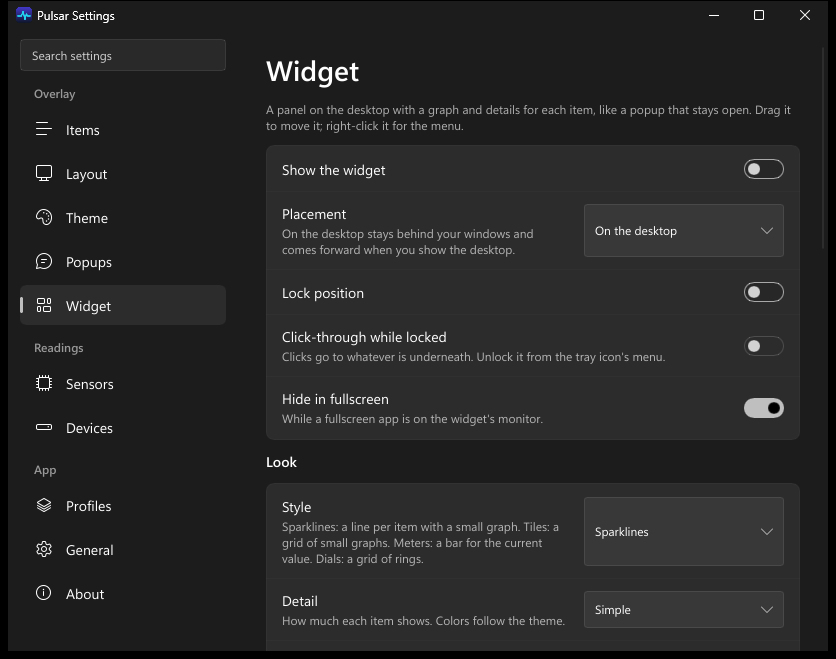
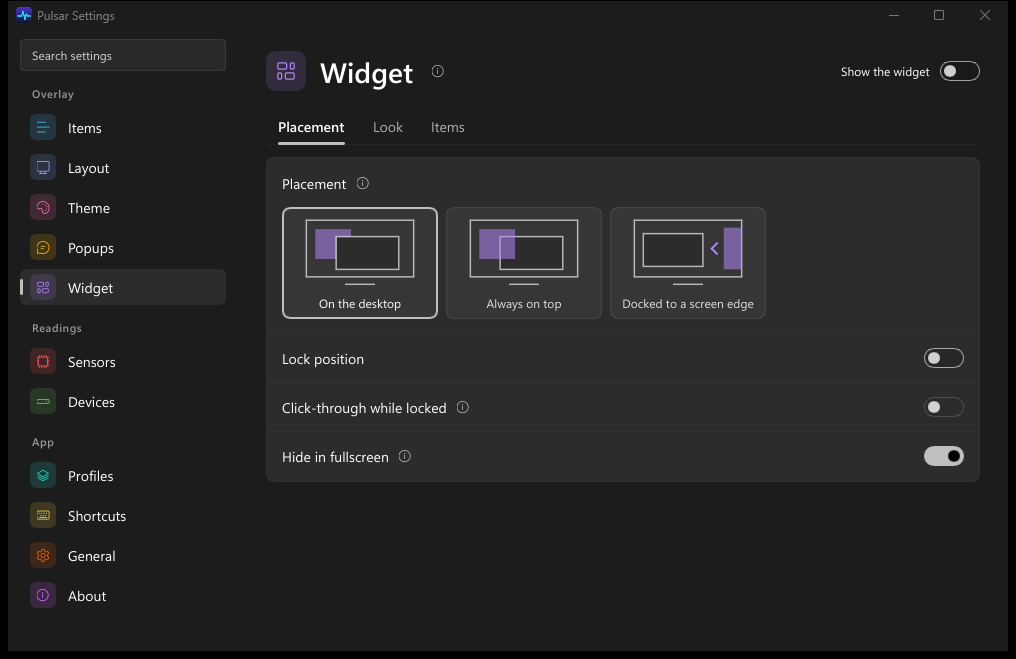
Document the new widget and Settings, and refresh the screenshots

diff --git a/README.md b/README.md
@@ -32,12 +32,13 @@ Pulsar puts live graphs or compact text for your system's vital signs right on t
 
 ## Highlights
 
-- **Graphs or text**, with one of twenty graph styles, a color and a popup detail chosen per item.
+- **Graphs or text**, with one of twenty graph styles, a color and a popup detail chosen per item, in a plain strip, one pill or a chip per item.
 - **Hover popups** at three levels of detail, with a translucent background that blurs what is behind them.
 - **A system details window**: processor, memory modules, graphics, drives, network, motherboard and every live sensor.
 - **GPU monitoring for any vendor**, read the way Task Manager does, with no drivers or vendor SDKs.
 - **CPU temperature and power, if you opt in**, through an optional [sensor service](#sensor-service).
-- **A desktop widget** with sparklines, tiles, meters or dials, and **themes** you can save and share, or design on [Pulsar Themes](https://oman-rod.github.io/Pulsar/).
+- **A desktop widget** with sparklines, tiles, meters, dials or device cards, nine layouts, glass or acrylic backgrounds, and an option to dock it to a screen edge, where it waits until you push the pointer against it.
+- **Themes** you can save and share, or design on [Pulsar Themes](https://oman-rod.github.io/Pulsar/).
 - **Frame rates and game sessions**: the frame rate of the app in front, a strip on the game's monitor while you play, and a summary when the game closes.
 - **Light**: about 20 MB of memory and well under 1% CPU, and it [pauses while nobody can see it](#staying-out-of-the-way). No admin rights, no drivers and no background services unless you add the sensor service.
 - **No telemetry.** See [Privacy](#privacy).
@@ -81,6 +82,16 @@ Pulsar sits beside the tray or at the left edge of the taskbar, nudged by an off
 | **Text** | ![Text mode](https://raw.githubusercontent.com/oMaN-Rod/Pulsar/main/docs/images/overlay-text.png) |
 | **Text, one-letter labels** | ![Text mode with one-letter labels](https://raw.githubusercontent.com/oMaN-Rod/Pulsar/main/docs/images/overlay-text-short.png) |
 | **Text, icons alone** | ![Text mode with icons alone](https://raw.githubusercontent.com/oMaN-Rod/Pulsar/main/docs/images/overlay-text-icons.png) |
+| **Text, label above the value**, chosen per item | ![Text mode with labels above the values](https://raw.githubusercontent.com/oMaN-Rod/Pulsar/main/docs/images/overlay-text-label-above.png) |
+
+### Shapes
+
+The items sit in a plain strip, in one pill around them all, or in a chip each. Set the corner radius, or leave the ends fully round, in *Settings → Layout → Overlay*.
+
+| | |
+|---|---|
+| **Pill** | ![Items in one pill](https://raw.githubusercontent.com/oMaN-Rod/Pulsar/main/docs/images/overlay-shape-pill.png) |
+| **Chips** | ![A chip per item](https://raw.githubusercontent.com/oMaN-Rod/Pulsar/main/docs/images/overlay-shape-chips.png) |
 
 ### A style and color per item
 
@@ -127,9 +138,11 @@ GPU power is in watts, for NVIDIA cards, read through the management library the
 
 ### Floating
 
-Detach Pulsar from the taskbar, drag it anywhere and lock it in place, here with a panel background.
+Detach Pulsar from the taskbar, drag it anywhere and lock it in place. A floating pill or chips blur what is behind them.
 
-![Floating mode](https://raw.githubusercontent.com/oMaN-Rod/Pulsar/main/docs/images/overlay-floating.png)
+| Panel | Pill |
+|:---:|:---:|
+| ![Floating mode](https://raw.githubusercontent.com/oMaN-Rod/Pulsar/main/docs/images/overlay-floating.png) | ![Floating pill](https://raw.githubusercontent.com/oMaN-Rod/Pulsar/main/docs/images/overlay-floating-pill.png) |
 
 ### On a full taskbar
 
@@ -137,13 +150,47 @@ Pulsar stays where you put it until it would cover a taskbar button. Then its it
 
 ### Desktop widget
 
-A panel on the desktop with a section per item, like a popup that stays open. It sits behind your windows and comes forward when you show the desktop, or stays on top if you prefer. Choose sparklines, tiles, meters or dials and how much detail it shows, for all items or per item, and drag it anywhere. Set its background color and opacity, and give it an order of its own by dragging the handles in *Settings → Widget*, or by holding <kbd>Shift</kbd> and dragging an item on the widget (no <kbd>Shift</kbd> needed once it is locked). The CPU can also show a core wall: a tall bar per logical processor with its peak, with performance and efficient cores apart. Turn it on in *Settings → Widget* or from the menu.
+A panel on the desktop with a section per item, like a popup that stays open. It sits behind your windows and comes forward when you show the desktop, stays on top, or docks to a screen edge. Drag it anywhere, and turn it on or off with the switch at the top of *Settings → Widget* or from the menu.
+
+- **Style:** sparklines, tiles, meters, dials or device cards (the device, a large value beside its graph, then details), for all items or per item, at Simple, Standard or Detailed. The CPU can also show a core wall: a tall bar per logical processor with its peak, with performance and efficient cores apart.
+- **Layout:** let Pulsar pick one, or choose Dashboard, Lanes, Tiles, Meters, Dials, Strip, Rings or Focus from the pictures in *Settings → Widget → Look*. The widget either fits its content or takes the size you drag its edges to.
+- **Focus:** one item at a time, with a large value and graph. It can step to the next item on a timer, with a fade or slide, or when you press a shortcut.
+- **Material:** Solid; Glass or Acrylic, which blur what is behind the widget; or Clear, which never blurs, for use over games. Glass can take a tint from the background color. Items can share one panel or each have a card of their own, with an optional border.
+- **Network:** download and upload as meter bars, with their rates under the direction names or on one line, and upload in a color of its own.
+- **Order:** the widget can show its own items in its own order: drag the handles in *Settings → Widget → Items*, or hold <kbd>Shift</kbd> and drag an item on the widget (no <kbd>Shift</kbd> needed once it is locked).
 
 | Sparklines | Tiles | Meters |
 |:---:|:---:|:---:|
 | <img src="https://raw.githubusercontent.com/oMaN-Rod/Pulsar/main/docs/images/widget-sparklines.png" width="220" alt="Widget with sparklines"> | <img src="https://raw.githubusercontent.com/oMaN-Rod/Pulsar/main/docs/images/widget-tiles.png" width="220" alt="Widget with tiles"> | <img src="https://raw.githubusercontent.com/oMaN-Rod/Pulsar/main/docs/images/widget-meters.png" width="220" alt="Widget with meters"> |
-| **Dials** | **Core wall** | **Detailed** |
-| <img src="https://raw.githubusercontent.com/oMaN-Rod/Pulsar/main/docs/images/widget-dials.png" width="220" alt="Widget with dials"> | <img src="https://raw.githubusercontent.com/oMaN-Rod/Pulsar/main/docs/images/widget-core-wall.png" width="220" alt="Widget with the CPU core wall"> | <img src="https://raw.githubusercontent.com/oMaN-Rod/Pulsar/main/docs/images/widget-detailed.png" width="220" alt="Widget at Detailed"> |
+| **Dials** | **Device cards** | **Core wall** |
+| <img src="https://raw.githubusercontent.com/oMaN-Rod/Pulsar/main/docs/images/widget-dials.png" width="220" alt="Widget with dials"> | <img src="https://raw.githubusercontent.com/oMaN-Rod/Pulsar/main/docs/images/widget-cards.png" width="220" alt="Widget with device cards"> | <img src="https://raw.githubusercontent.com/oMaN-Rod/Pulsar/main/docs/images/widget-core-wall.png" width="220" alt="Widget with the CPU core wall"> |
+| **Glass, separate cards** | **Acrylic** | **Detailed** |
+| <img src="https://raw.githubusercontent.com/oMaN-Rod/Pulsar/main/docs/images/widget-glass.png" width="220" alt="Widget with glass cards"> | <img src="https://raw.githubusercontent.com/oMaN-Rod/Pulsar/main/docs/images/widget-acrylic.png" width="220" alt="Widget with an acrylic background"> | <img src="https://raw.githubusercontent.com/oMaN-Rod/Pulsar/main/docs/images/widget-detailed.png" width="220" alt="Widget at Detailed"> |
+
+<details>
+<summary><b>More layouts</b></summary>
+
+| Focus |
+|:---:|
+| <img src="https://raw.githubusercontent.com/oMaN-Rod/Pulsar/main/docs/images/widget-layout-focus.png" width="220" alt="Focus layout"> |
+
+**Dashboard**
+
+<img src="https://raw.githubusercontent.com/oMaN-Rod/Pulsar/main/docs/images/widget-layout-dashboard.png" alt="Dashboard layout">
+
+**Strip**
+
+<img src="https://raw.githubusercontent.com/oMaN-Rod/Pulsar/main/docs/images/widget-layout-strip.png" alt="Strip layout">
+
+**Rings**
+
+<img src="https://raw.githubusercontent.com/oMaN-Rod/Pulsar/main/docs/images/widget-layout-rings.png" alt="Rings layout">
+
+</details>
+
+#### Docked to a screen edge
+
+Choose *Docked to a screen edge* in *Settings → Widget → Placement*, then pick the edge and monitor. The widget stays out of sight until you push the pointer past that edge, and hides again shortly after the pointer leaves, when you click elsewhere, or when you press <kbd>Esc</kbd>. Where the edge meets another monitor the pointer crosses over instead, so resting at the edge for a moment opens it. You can set how hard to push, how long it waits before hiding, a thin line where it waits, and whether it opens over fullscreen apps by shortcut, by shortcut and edge, or not at all. The widget's shortcut also shows it.
 
 ### In games
 
@@ -162,12 +209,12 @@ Pulsar can warn you with a notification when the CPU or GPU stays above a temper
 
 ### Shortcuts
 
-Set keyboard shortcuts in *Settings → General* to show or hide Pulsar, turn the desktop widget on or off, open the system details window, start or stop recording, and switch to the next profile. They work anywhere in Windows and are not set until you choose them.
+Set keyboard shortcuts in *Settings → Shortcuts* to show or hide Pulsar, open the system details window, start or stop recording, switch to the next profile, turn the desktop widget on or off, and step to the next or previous item in the widget's Focus layout. They work anywhere in Windows and are not set until you choose them; each has a button to clear it.
 
 <details>
-<summary><b>Shortcuts and alerts in Settings</b></summary>
+<summary><b>Shortcuts in Settings</b></summary>
 
-![Settings, shortcuts and alerts](https://raw.githubusercontent.com/oMaN-Rod/Pulsar/main/docs/images/settings-general-3.png)
+![Settings, Shortcuts](https://raw.githubusercontent.com/oMaN-Rod/Pulsar/main/docs/images/settings-shortcuts.png)
 
 </details>
 
@@ -177,7 +224,7 @@ Choose *Record to CSV* from the menu to write every sample to a new file in `Doc
 
 ### Profiles
 
-Save the current setup as a named profile in *Settings → Profiles*, such as one for gaming and one for the desk, and switch between them there or from *Profiles* in the menu. A profile keeps the items, layout, theme, popups, widget, units, drives and network. Language, startup, the update interval, games, alerts and shortcuts are the same in every profile. The menu ticks the profile that matches the current settings. A keyboard shortcut, set in *Settings → General*, switches to the next profile.
+Save the current setup as a named profile in *Settings → Profiles*, such as one for gaming and one for the desk, and switch between them there or from *Profiles* in the menu. A profile keeps the items, layout, theme, popups, widget, units, drives and network. Language, startup, the update interval, games, alerts and shortcuts are the same in every profile. The menu ticks the profile that matches the current settings. Each profile shows as a card with its theme, item count and whether it has the widget. A keyboard shortcut, set in *Settings → Shortcuts*, switches to the next profile.
 
 | Settings | Menu |
 |:---:|:---:|
@@ -198,14 +245,15 @@ For more, open [Pulsar Themes](https://oman-rod.github.io/Pulsar/), or *More the
 
 ### Staying out of the way
 
-While the display is off, the PC is locked or the session is disconnected, Pulsar stops sampling and pinging, and resumes within a couple of seconds of your return. It keeps sampling if an alert is on, a recording is running or a game session is open, so those have no gaps. It asks Windows to run it in efficiency mode, and *Update interval on battery* in *Settings → General* can slow its readings while unplugged.
+While the display is off, the PC is locked or the session is disconnected, Pulsar stops sampling and pinging, and resumes within a couple of seconds of your return. It keeps sampling if an alert is on, a recording is running or a game session is open, so those have no gaps. It asks Windows to run it in efficiency mode, and *Update interval on battery* in *Settings → Sensors* can slow its readings while unplugged.
 
 ### Make it yours
 
 - label, value and item colors, with separate label and value colors for a light taskbar
 - tile and panel backgrounds, which help on Windhawk, TranslucentTB and similar
 - any installed font, bold optional
-- temperatures in °C or °F, memory and GPU memory as a percentage or the amount in use, network rates in bytes or bits per second, a minimum speed below which the taskbar and widget show 0, and upload shown above download if you prefer
+- in text mode, any item's label above its value instead of before it
+- temperatures in °C or °F, memory and GPU memory as a percentage or the amount in use, network rates in bytes or bits per second, a minimum speed below which the taskbar and widget show 0, upload shown above download if you prefer, and a separate color for upload
 - a dot before the network arrows in the color of the connection: internet, the local network only, or none, as Windows judges it for the tray's network icon
 - network as download, upload or both, on one graph tile or a tile for each, with a separate choice for the popup
 - each drive as its own item, showing its activity or used space; each GPU with its own load, temperature and memory; and all physical network adapters, one, or several side by side
@@ -345,24 +393,20 @@ Switch between graphs and text, show or hide items, and set popup detail, units,
 
 ### Settings
 
-Every option, applied as you change it.
+Every option, applied as you change it. Each page has a color of its own, the longer pages are split into tabs, and the ⓘ beside a setting explains it. Search finds any setting and opens its page and tab.
 
 <details>
 <summary><b>Settings pages</b></summary>
 
-**Items:** which items show, their order (drag a handle or use the arrows) and color, and each item's graph style, coloring and popup detail
+**Items:** the items in order on the left, with a switch for each; the chosen item's color, labels, graph style, trend arrow, tile size and popup on the right. Drag a handle, or press <kbd>Alt</kbd>+<kbd>↑</kbd>/<kbd>↓</kbd>, to reorder. The *Load colors* tab sets the colors for color by load.
 
 ![Settings, Items](https://raw.githubusercontent.com/oMaN-Rod/Pulsar/main/docs/images/settings-items.png)
 
-Open an item's options for its graph style, trend arrow, tile size and popup.
-
-![Settings, an item's graph styles](https://raw.githubusercontent.com/oMaN-Rod/Pulsar/main/docs/images/settings-items-cpu-2.png)
-
-**Layout:** graphs or text, labels, icons, the font, and where the overlay sits
+**Layout:** graphs or text, the shape, labels and icons on *Overlay*; the font and spacing on *Text*; where the overlay sits, and what happens when the taskbar is full, on *Position*
 
 ![Settings, Layout](https://raw.githubusercontent.com/oMaN-Rod/Pulsar/main/docs/images/settings-layout.png)
 
-**Theme:** themes, custom colors, and tile and panel backgrounds
+**Theme:** themes, label and value colors paired for dark and light taskbars, and tile and panel colors with their opacity
 
 ![Settings, Theme](https://raw.githubusercontent.com/oMaN-Rod/Pulsar/main/docs/images/settings-theme.png)
 
@@ -370,25 +414,31 @@ Open an item's options for its graph style, trend arrow, tile size and popup.
 
 ![Settings, Popups](https://raw.githubusercontent.com/oMaN-Rod/Pulsar/main/docs/images/settings-popups.png)
 
-**Widget:** placement, style, detail, width, background color and opacity, and which items it shows, in what order
+**Widget:** where it sits, on *Placement*; its size, layout, style, material and detail, on *Look*; which items it shows, in what order, on *Items*
 
-![Settings, Widget](https://raw.githubusercontent.com/oMaN-Rod/Pulsar/main/docs/images/settings-widget.png)
+![Settings, Widget placement](https://raw.githubusercontent.com/oMaN-Rod/Pulsar/main/docs/images/settings-widget.png)
 
-**Sensors:** the sensor service, frame rate, games and the temperature unit
+![Settings, Widget look](https://raw.githubusercontent.com/oMaN-Rod/Pulsar/main/docs/images/settings-widget-look.png)
+
+**Sensors:** whether the sensor service and PawnIO are working, frame rate, games, units, and how often Pulsar samples, on mains and on battery
 
 ![Settings, Sensors](https://raw.githubusercontent.com/oMaN-Rod/Pulsar/main/docs/images/settings-sensors.png)
 
-**Devices:** drives, GPUs, network adapters, rates and minimum speeds, and the ping host
+**Devices:** drives, GPUs, network adapters with their rates and minimum speeds, and the ping host, a tab each
 
-![Settings, Devices](https://raw.githubusercontent.com/oMaN-Rod/Pulsar/main/docs/images/settings-drives.png)
+![Settings, Devices](https://raw.githubusercontent.com/oMaN-Rod/Pulsar/main/docs/images/settings-devices.png)
 
-**Profiles:** save, apply and delete profiles
+**Profiles:** save, apply, update and delete profiles
 
 ![Settings, Profiles](https://raw.githubusercontent.com/oMaN-Rod/Pulsar/main/docs/images/settings-profiles.png)
 
-**General:** language, start with Windows, update checks, the tray icon, shortcuts, alerts, how often Pulsar samples, on mains and on battery, and resetting everything
+**Shortcuts:** keyboard shortcuts for Pulsar and the widget
+
+**General:** language, start with Windows, update checks, the tray icon, alerts, and resetting everything
 
 ![Settings, General](https://raw.githubusercontent.com/oMaN-Rod/Pulsar/main/docs/images/settings-general.png)
+
+**About:** the version and whether an update is out, links, the settings and logs folders, and diagnostics
 
 </details>
 
@@ -422,7 +472,7 @@ The *Frame rate* item needs the service, but not PawnIO.
    - **Installer:** tick the boxes on its *CPU temperature* page. Run the installer again to add or remove them later.
    - **winget:** `winget install` runs the installer silently, which never asks for administrator rights and so skips that page. Run `winget install -i oMaN-Rod.Pulsar` to see it, or follow the next step using `%LOCALAPPDATA%\Programs\Pulsar\pulsar-sensors.exe`.
    - **Portable zip or Cargo:** install PawnIO (`winget install namazso.PawnIO`), then run `pulsar-sensors.exe --install` from an administrator terminal.
-2. Turn on *CPU temperature*, *CPU power*, *Chipset temperature* or *Frame rate* in *Settings → Items*.
+2. Turn on *CPU temperature*, *CPU power*, *Chipset temperature* or *Frame rate* in *Settings → Items*. *Settings → Sensors* shows whether the service and PawnIO are working.
 
 > [!NOTE]
 > The service runs from its own copy of `pulsar-sensors.exe`. The installer's wizard refreshes that copy, but a silent upgrade (`winget upgrade`) and `cargo install` do not, so run `pulsar-sensors.exe --install` again after those if Pulsar says the service needs updating.
@@ -507,7 +557,7 @@ cargo test --workspace
 | Script | What it does |
 |---|---|
 | `scripts\package.ps1` | builds the installer, the portable zip and the winget manifests into `dist\`; needs [Inno Setup](https://jrsoftware.org/isinfo.php) 7, which ships the Simplified Chinese messages |
-| `scripts\screenshots.ps1` | captures the overlay in every layout and style, popups, menus, the widget, the game strip, Settings and the details window to `target\screenshots\`; `-Publish` refreshes the images in `docs\images` |
+| `scripts\screenshots.ps1` | captures the overlay in every layout, shape and style, popups, menus, the widget in its styles, materials and layouts, the game strip, every Settings page and tab, and the details window to `target\screenshots\`; `-Publish` adds the images `docs\images` lacks, and `-Replace` names those to overwrite |
 
 The theme site lives in `site/`; see [site/README.md](site/README.md) to run it locally.
 
